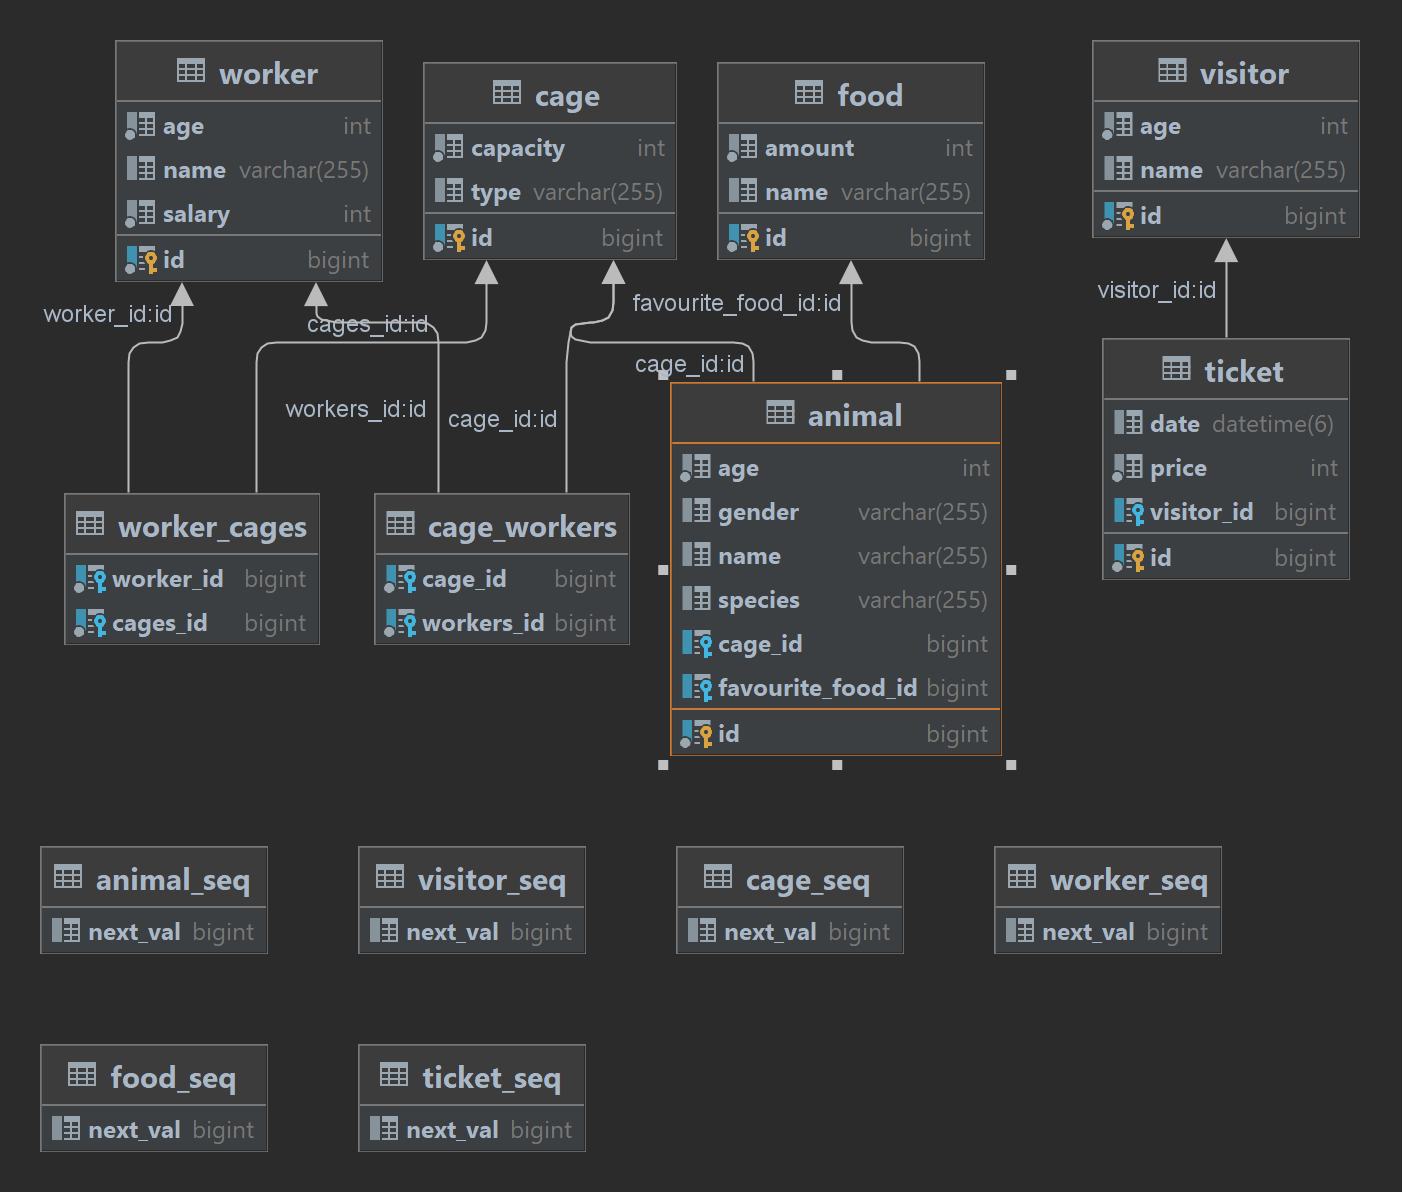
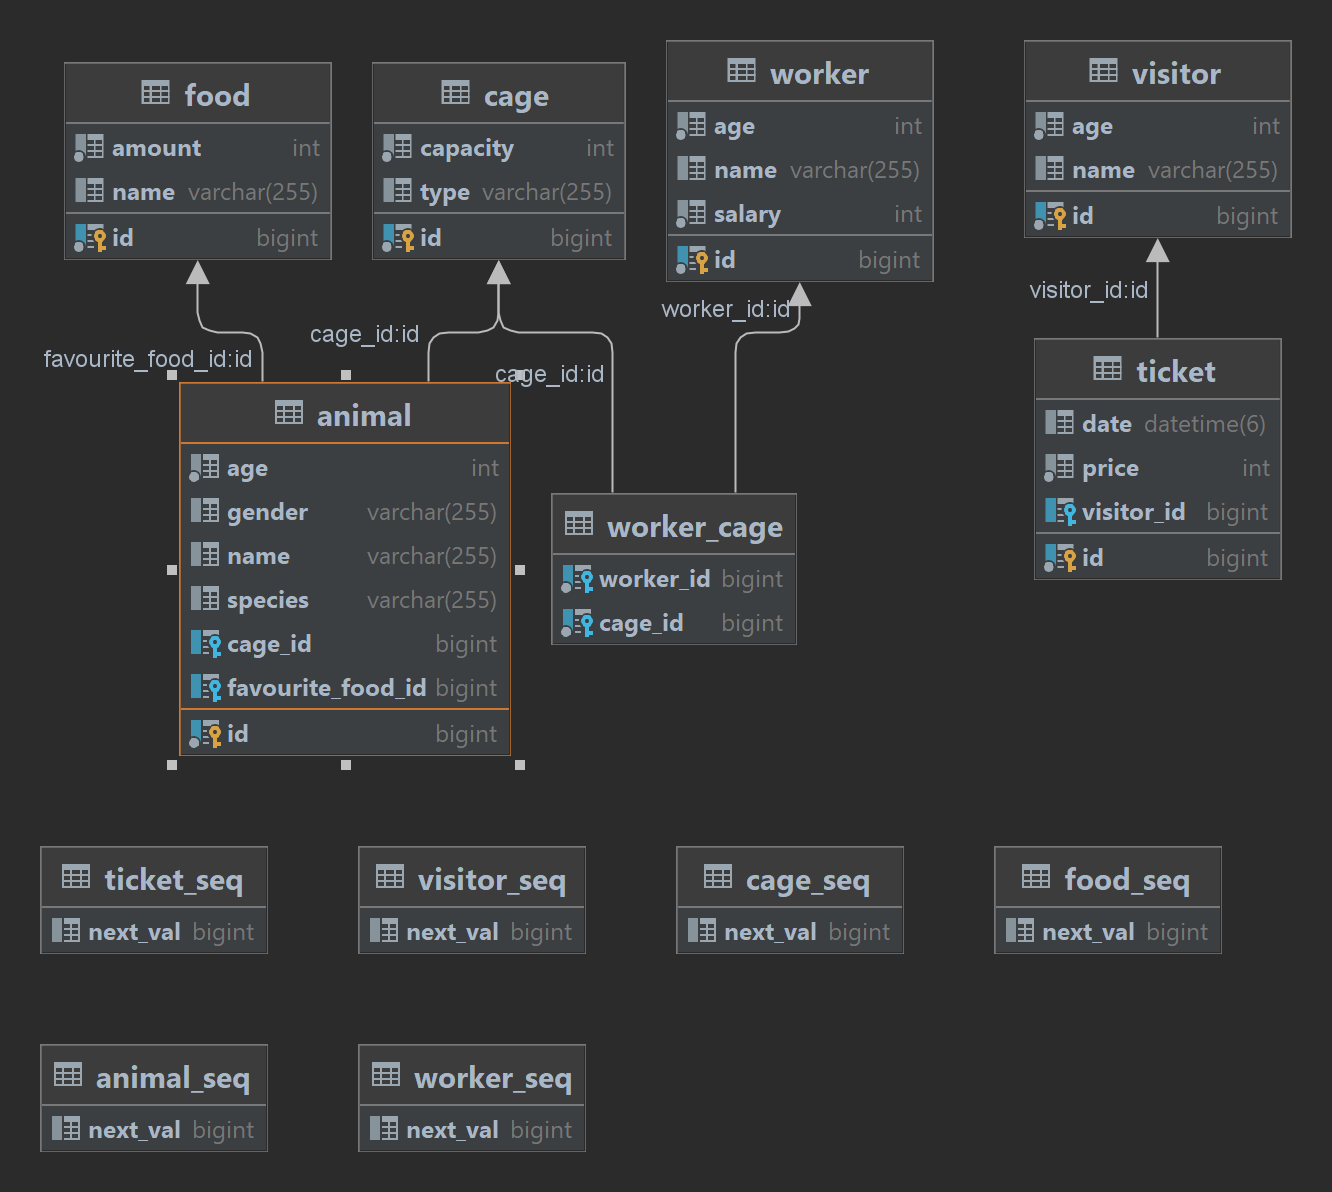
Fixed replicated manytomany table

diff --git a/src/main/java/com/example/zoo/entity/Worker.java b/src/main/java/com/example/zoo/entity/Worker.java
@@ -19,6 +19,11 @@ public class Worker {
     private int salary;
 
     @ManyToMany
+    @JoinTable(
+            name = "worker_cage",
+            joinColumns = @JoinColumn(name = "worker_id"),
+            inverseJoinColumns = @JoinColumn(name = "cage_id")
+    )
     private List<Cage> cages;
 
 }

diff --git a/src/main/java/com/example/zoo/entity/Cage.java b/src/main/java/com/example/zoo/entity/Cage.java
@@ -19,6 +19,6 @@ public class Cage {
     @OneToMany(mappedBy = "cage")
     private List<Animal> animals;
 
-    @ManyToMany
+    @ManyToMany(mappedBy = "cages")
     private List<Worker> workers;
 }
